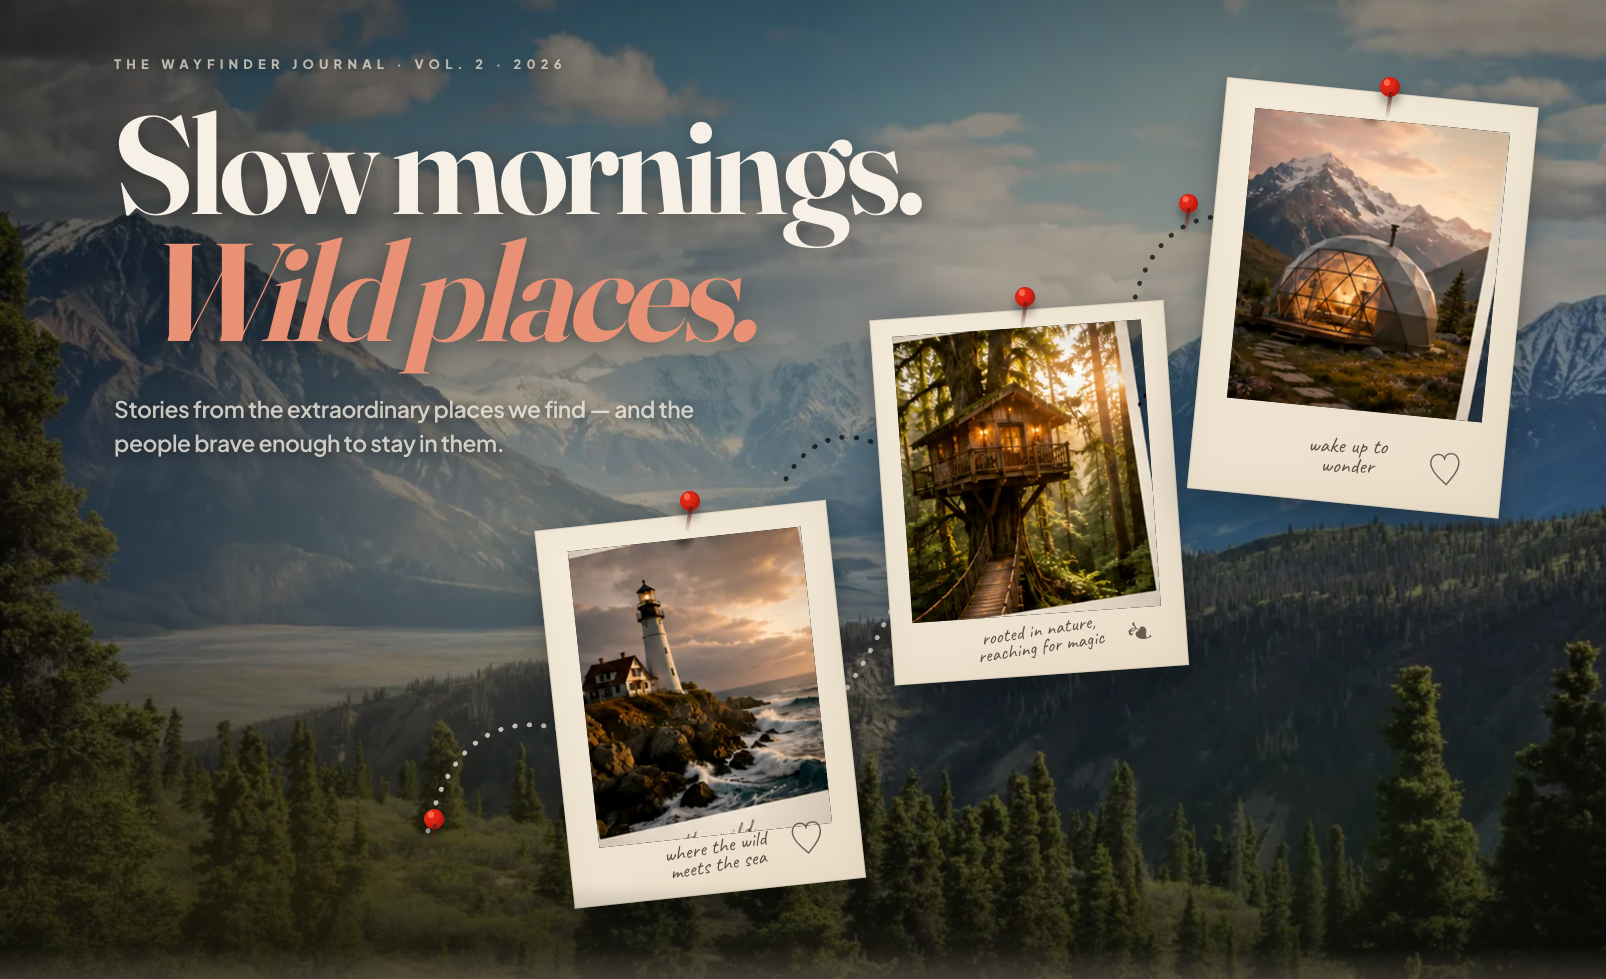
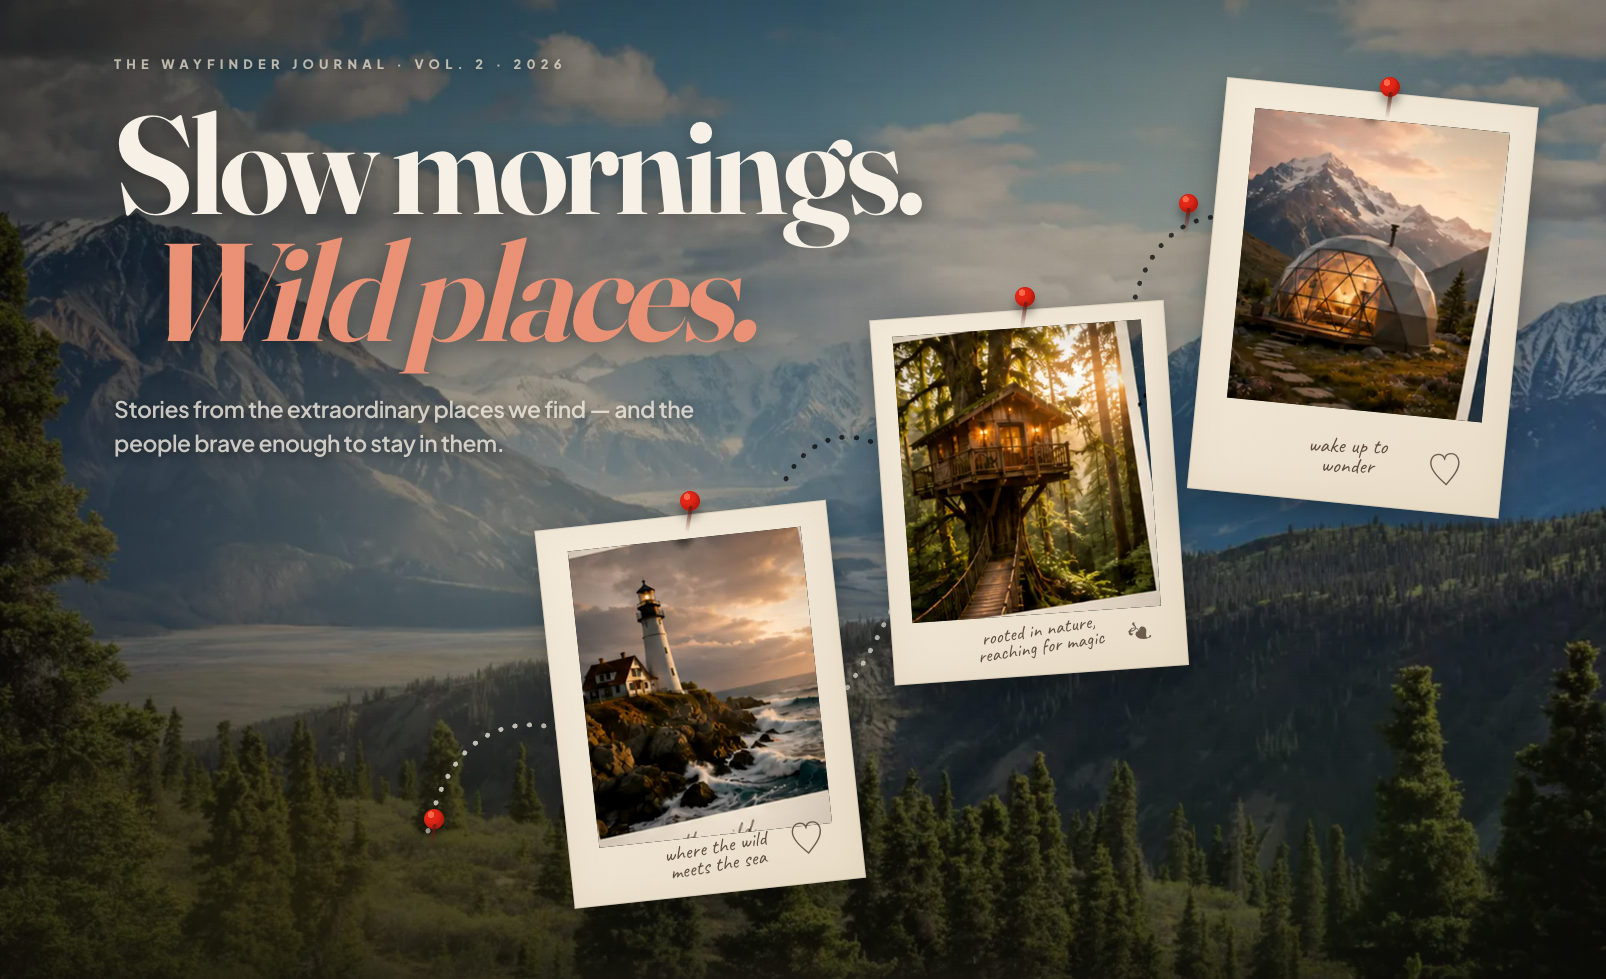
polish(journal): extend hero image behind board

Changed region(s): [[0.0, 0.9806, 1.0, 1.0]]

diff --git a/src/app/(app)/globals.css b/src/app/(app)/globals.css
@@ -451,12 +451,28 @@
   z-index: 1;
   display: grid;
   place-items: start center;
-  padding-bottom: clamp(5.5rem, 8vw, 8.5rem);
+  padding-bottom: clamp(7rem, 10vw, 10.5rem);
   background:
     radial-gradient(ellipse at 50% 90%, rgba(236, 218, 179, 0.18), transparent 48%),
     radial-gradient(circle at 50% 35%, rgba(236, 218, 179, 0.08), transparent 38%),
     linear-gradient(180deg, #1f211f 0%, #070807 72%, #11110c 100%);
   overflow: hidden;
+}
+
+.journal-hero::before {
+  content: '';
+  position: absolute;
+  right: 0;
+  bottom: 0;
+  left: 0;
+  z-index: 0;
+  height: clamp(13rem, 20vw, 20rem);
+  pointer-events: none;
+  background:
+    linear-gradient(180deg, rgba(8, 10, 8, 0), rgba(8, 10, 8, 0.2) 46%, rgba(21, 18, 11, 0.42) 100%),
+    url('/prototypes/journal-hero-pixel-match/background.png') center bottom / cover no-repeat;
+  filter: saturate(1.04) brightness(0.92) sepia(0.04);
+  opacity: 0.86;
 }
 
 .journal-hero::after {
@@ -1087,7 +1103,7 @@ body:has(.journal-hero) nextjs-portal {
 .journal-board {
   position: relative;
   z-index: 4;
-  margin: clamp(-5.5rem, -6vw, -3.5rem) clamp(0.75rem, 2vw, 2rem) clamp(4rem, 8vw, 7rem);
+  margin: clamp(-6.75rem, -7vw, -4.5rem) clamp(0.75rem, 2vw, 2rem) clamp(4rem, 8vw, 7rem);
   padding: clamp(1.75rem, 4.5vw, 4.5rem) clamp(1.25rem, 4vw, 4rem) clamp(1.25rem, 4vw, 4rem);
   background:
     linear-gradient(180deg, oklch(0.91 0.032 74 / 0.98), transparent 11rem),
